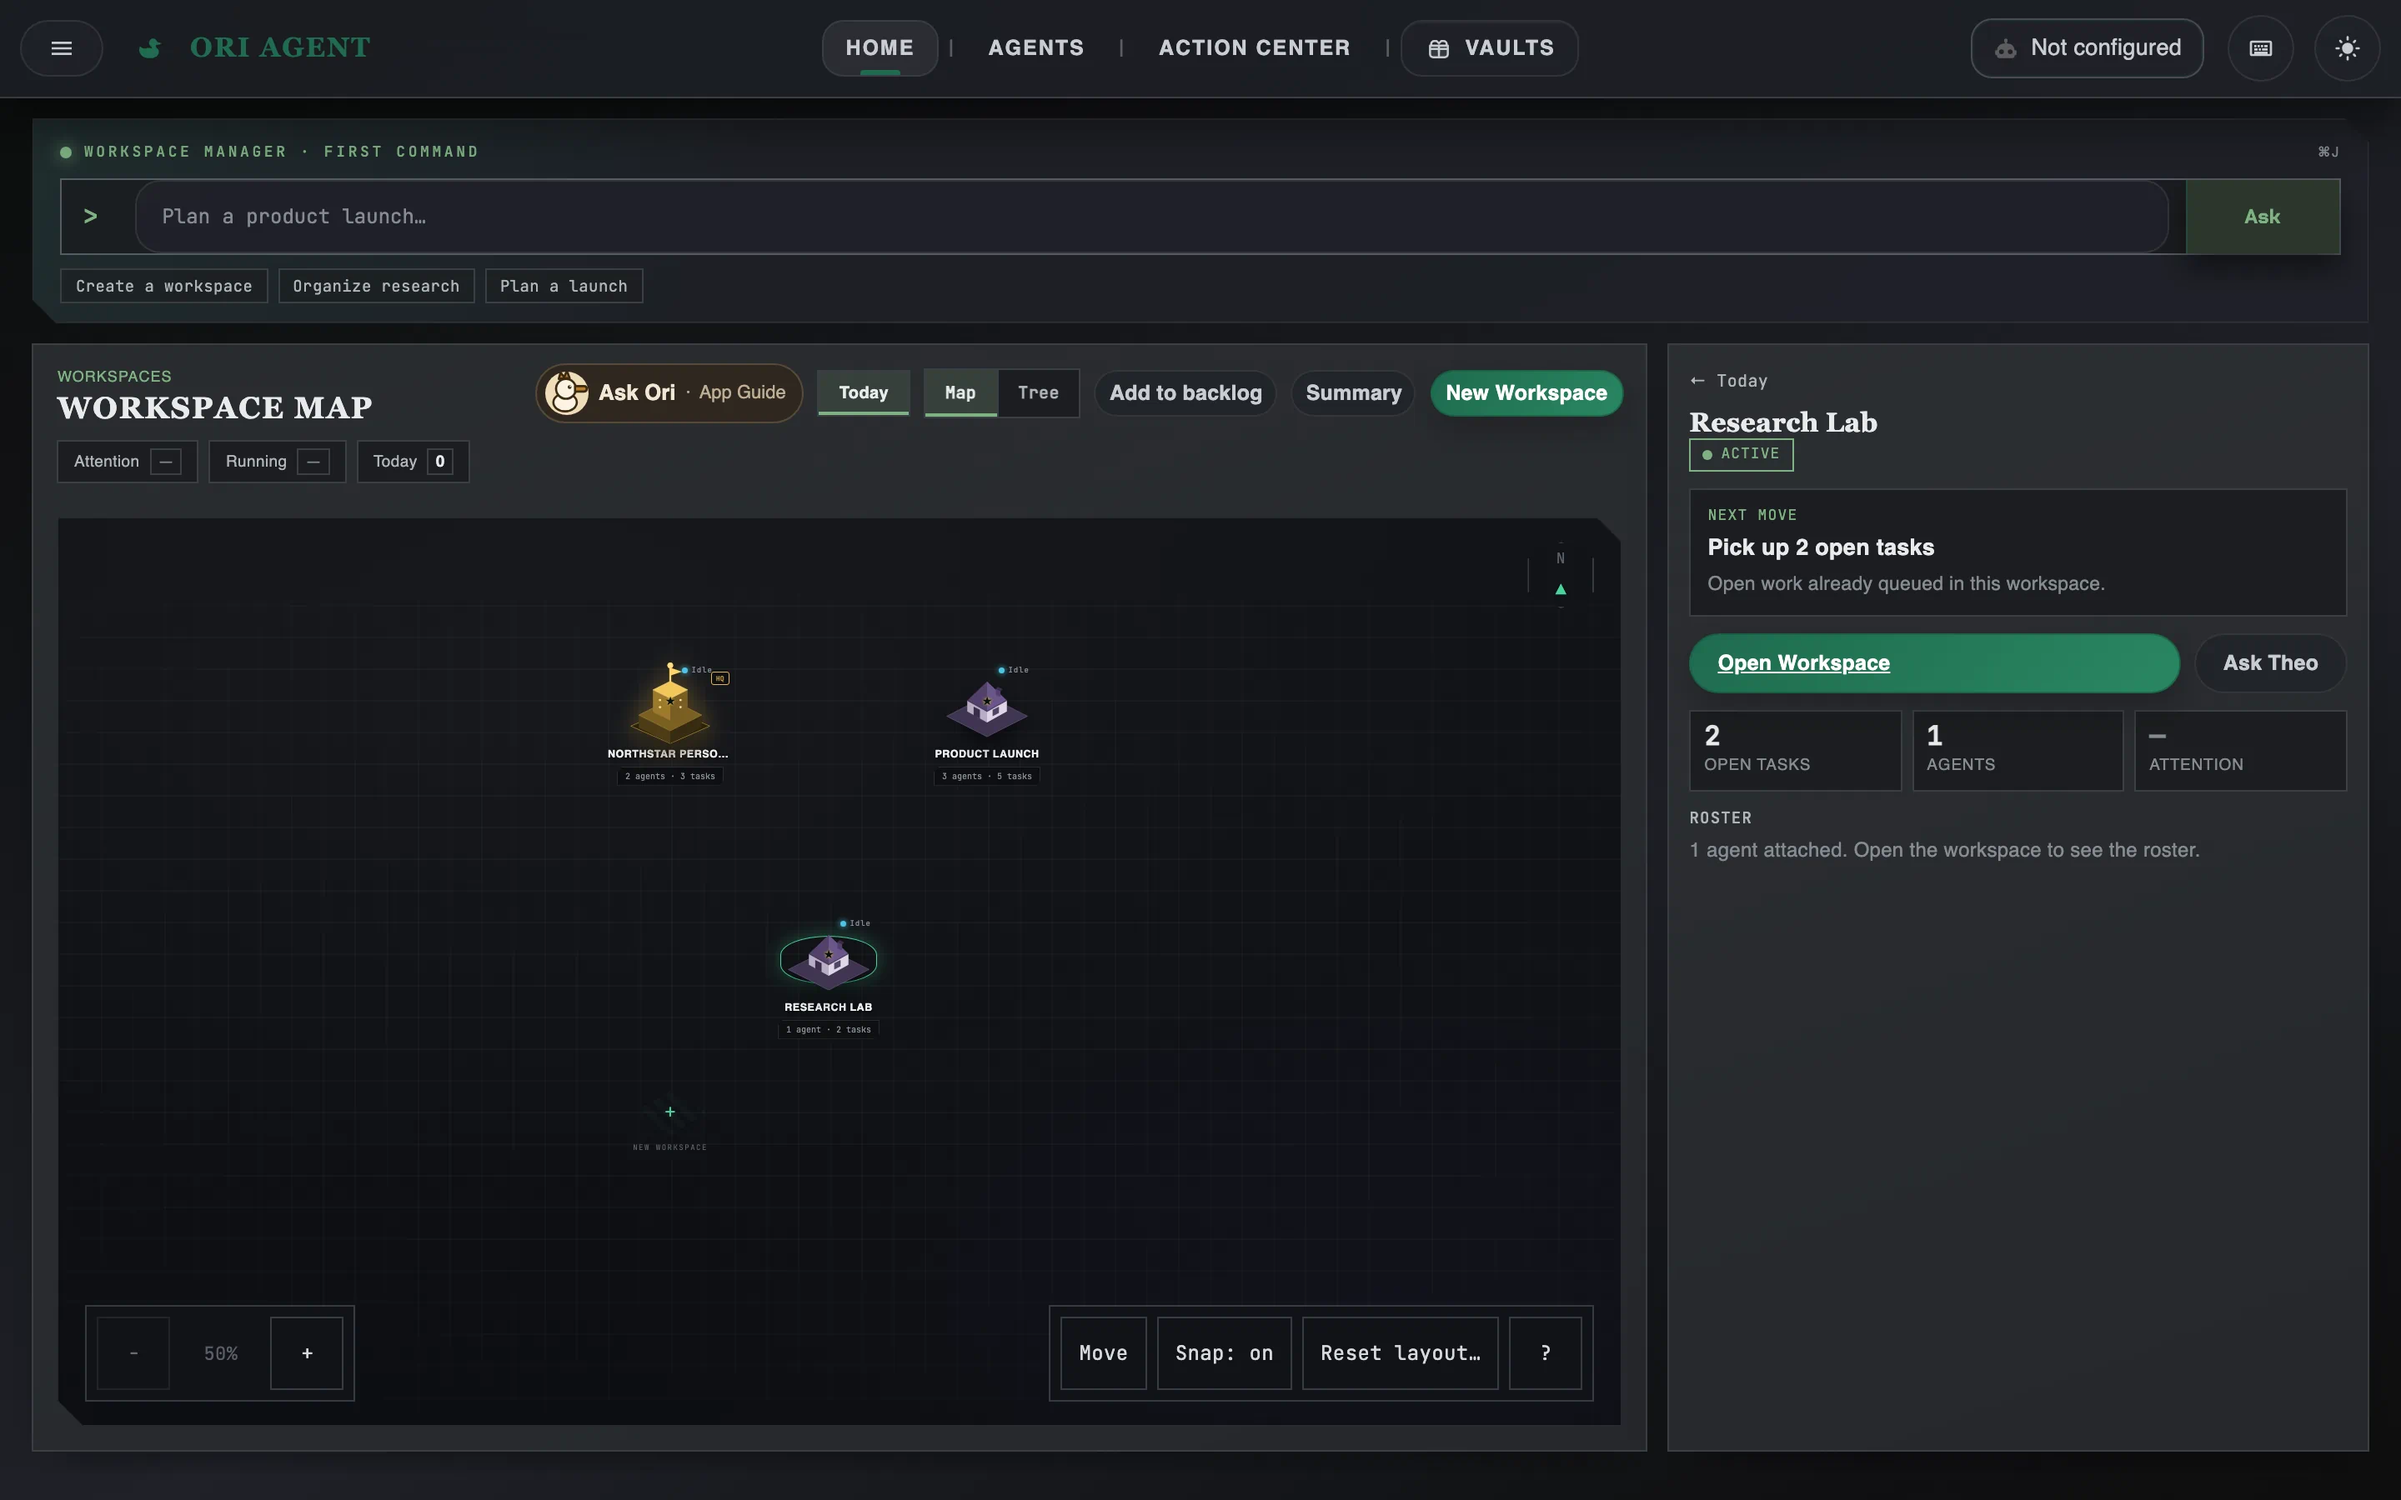
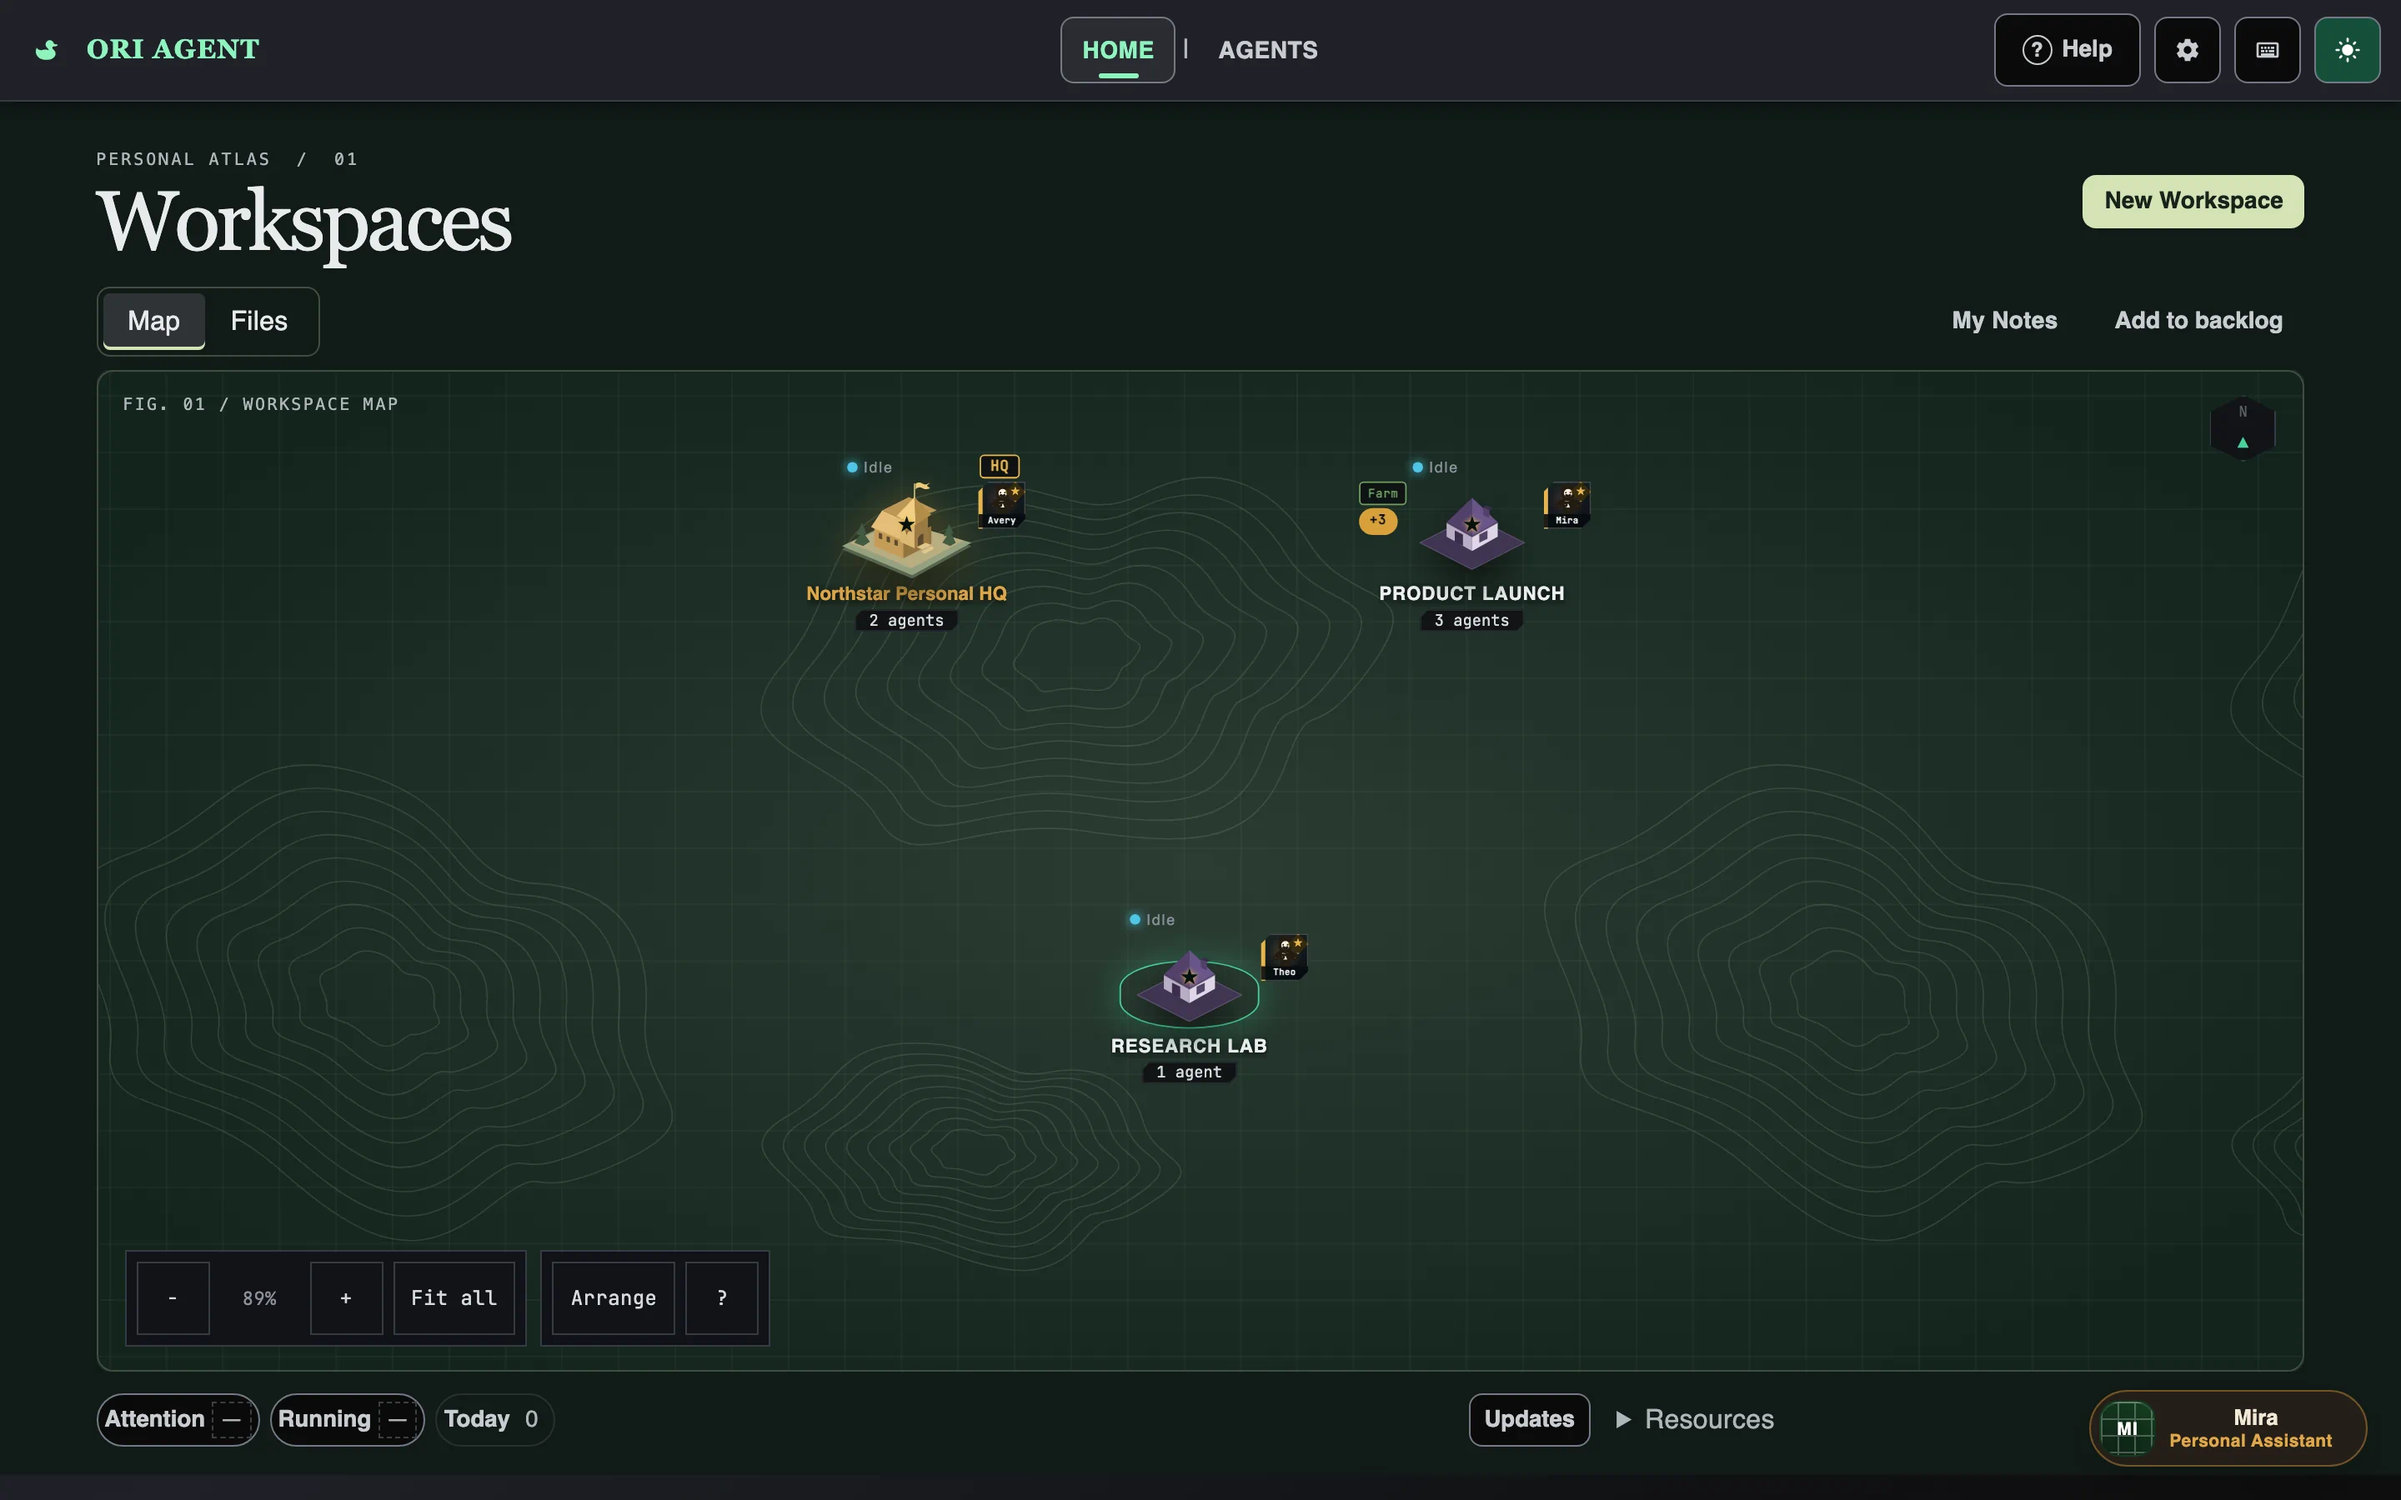
docs(readme): refresh workspace screenshots and captions
Show the assistant drawer, workspace map, ticket overview, and complete Action Center findings. Record the verified capture checksums.

diff --git a/README.md b/README.md
@@ -10,9 +10,9 @@ A **local-first** base of autonomous AI workspaces, guardrailed by the autonomy 
 ![Go](https://img.shields.io/github/go-mod/go-version/johnjallday/ori-agent?label=Go&color=00add8)
 
 <p align="center">
-  <img src="docs/images/hero.webp" alt="Ori Agent Home in dark mode showing the command bridge above a populated Personal HQ Daily Brief." width="820" />
+  <img src="docs/images/hero.webp" alt="Workspace map beside Mira’s open assistant drawer, with a launch finding and a link to today’s brief." width="820" />
 </p>
-<p align="center"><em>Home brings the command bridge and a focused Personal HQ Daily Brief into one starting point.</em></p>
+<p align="center"><em>See which workspaces are active, check what your assistant needs from you, and open today’s brief in Personal HQ.</em></p>
 
 **Ori Agent** is a local-first **AI headquarters** that runs on your machine. A **Personal HQ** anchors your day — daily brief, email station, follow-ups, and a Watchtower view across everything else — while specialized **workspaces** around it pursue missions on a recurring schedule under an **autonomy policy** you set. Findings flow into one cross-workspace **Action Center** for triage. Your **personal assistant** sets those workspaces up from the folders you show it, each with named agents that have their own model, prompt, skills, and MCP tools. Everything stays local unless you opt into cloud LLMs.
 
@@ -59,8 +59,8 @@ Each MCP/skill binding is classified by side effect (read / write / external), a
 
 | Workspace Map | Workspace Command |
 | :---: | :---: |
-| <img src="docs/images/workspace-map.webp" alt="Ori Agent Workspace Map in dark mode showing a Personal HQ landmark and multiple fictional workspaces." width="420" /> | <img src="docs/images/workspace.webp" alt="Ori Agent Workspace Command in dark mode with a fictional agent roster, task state, workspace context, and mission controls." width="420" /> |
-| <sub>Workspace Map shows Personal HQ and the wider operating landscape at a glance.</sub> | <sub>Workspace Command keeps agents, tasks, notes, files, and mission operations in one active workspace.</sub> |
+| <img src="docs/images/workspace-map.webp" alt="Ori Agent Workspace Map in dark mode showing a Personal HQ landmark and multiple fictional workspaces." width="420" /> | <img src="docs/images/workspace.webp" alt="Product Launch workspace showing a launch checklist ticket in progress, two team members, and links to notes and files." width="420" /> |
+| <sub>Workspace Map shows Personal HQ and the wider operating landscape at a glance.</sub> | <sub>Open the next ticket, see who’s on the team, and find notes and linked folders in the workspace overview.</sub> |
 
 ## 🚀 Quick start
 
